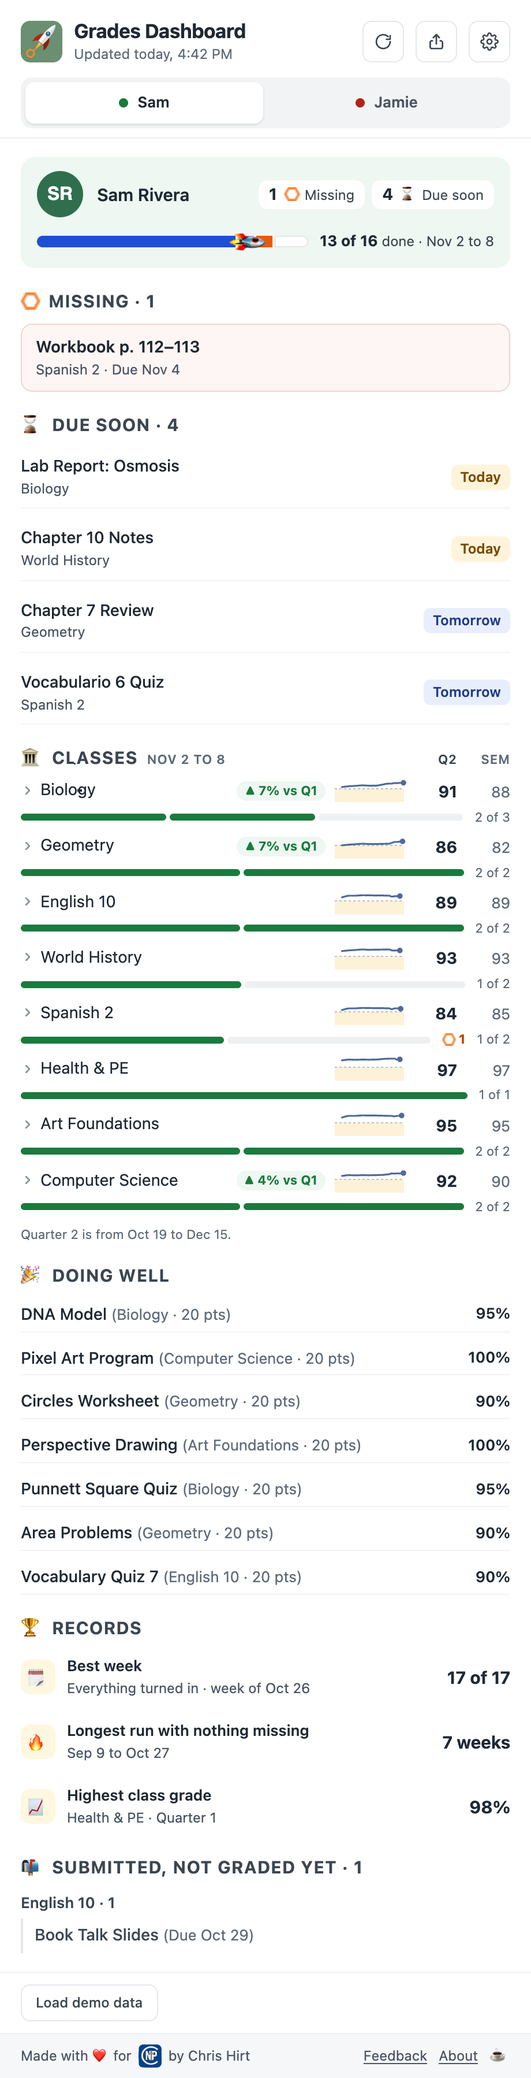
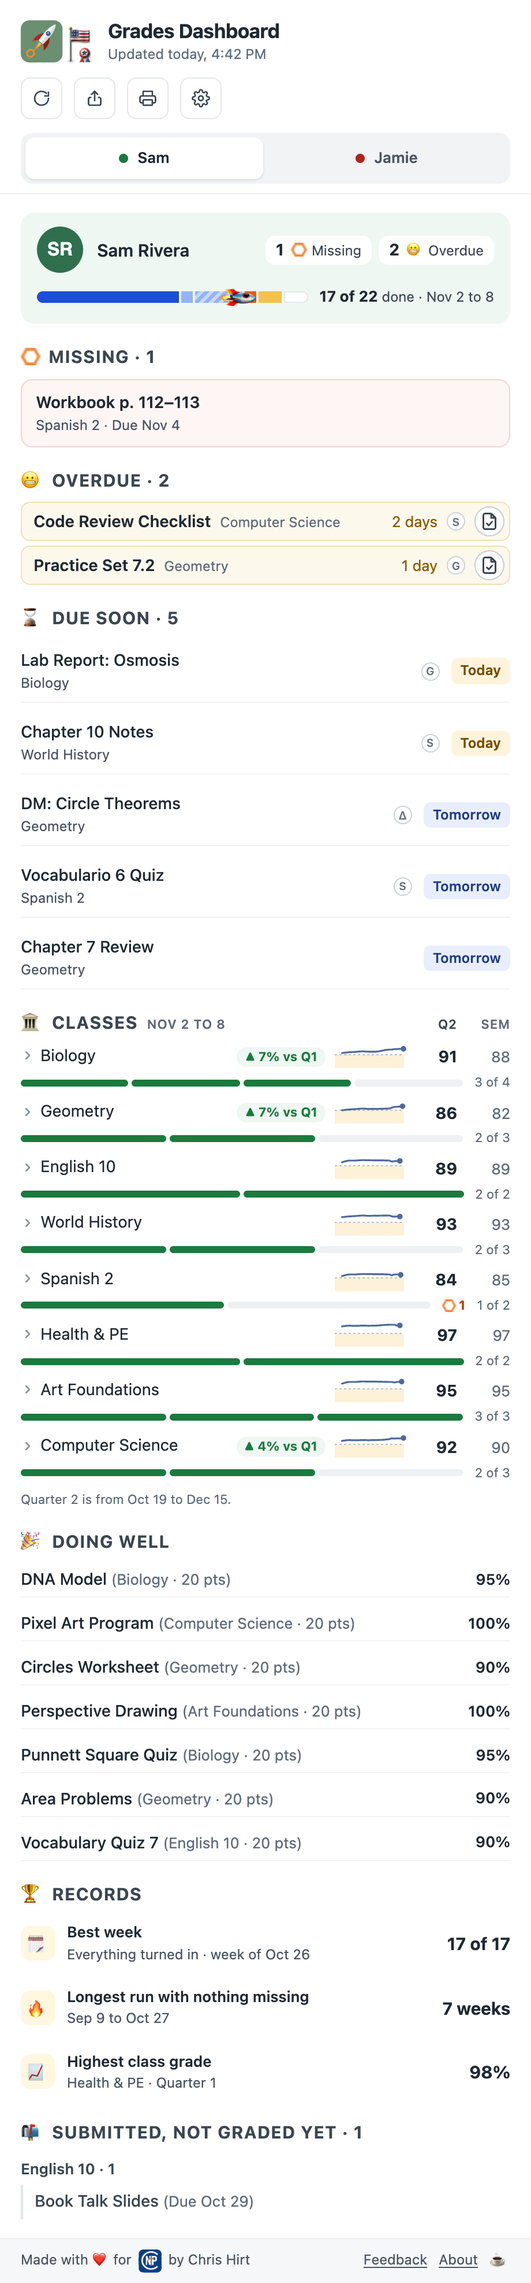
Site: feature "Only what you can still turn in", with a new screenshot (#130)
Home page: a new section after "Built with students and parents in mind"
(paper work counts as done, Overdue is what still needs turning in, the
S/G/Δ/globe badge key, Sam's example) and a feature card. Features page: a
new section after Missing work, with research and what we avoid; the week
progress text mentions the striped "done offline" part.

Screenshot (site/img/real-overdue.png): Sam's name card through Due soon.
The showcase data gives Sam paper work past due and online work on each
kind of page; the mock server serves classic, Google and outside-tool
pages, and a parent's preview link leads on to the assignment page. Half of
each class's graded work shows as turned in online, so its Submissions box
is trusted. Shots run with reduced motion, so no celebration is caught
mid-animation. All site images regenerated; alt text updated to match.

diff --git a/site/features.html b/site/features.html
@@ -26,37 +26,49 @@
 <div class="research"><strong>What the research says</strong><p>Specific information about missing assignments is what made the parent alerts work.<sup class="cite"><a href="research.html#r1">[1]</a></sup> Feedback helps most when it's about the task and what to do next.<sup class="cite"><a href="research.html#r5">[5]</a></sup></p></div>
 <div class="avoid"><strong>What we avoid, and why</strong><p>A plain zero is never called Missing, because only the teacher's Missing mark counts. Marks never notify anyone. Feedback that turns attention to the person (“you're behind”) instead of the task often makes things worse.<sup class="cite"><a href="research.html#r6">[6]</a></sup></p></div></div>
 <div class="feature-media"><div class="panel-crop"><img src="img/waiting-on-teacher.png" alt="Submitted, not graded yet: work that was turned in and is still waiting for a grade." loading="lazy" style="width:293%;max-width:none;margin-left:-193%"></div></div>
-</article><article class="feature" id="due">
+</article><article class="feature" id="real-overdue">
+<div><h2>Only what you can still turn in</h2><p>Schoology lists work that can still be turned in right next to work that was done on paper or in class. The dashboard reads each assignment's own page to tell them apart. Paper and in-class work counts as done once its due date passes, and it's never in Overdue, so Overdue only shows what still needs turning in. Each assignment that goes in online gets a small badge saying where:</p>
+<ul class="via-key" aria-label="What the badges mean">
+<li><span class="via" aria-hidden="true">S</span>A Schoology assignment</li>
+<li><span class="via" aria-hidden="true">G</span>A Google assignment</li>
+<li><span class="via" aria-hidden="true">Δ</span>A DeltaMath assignment</li>
+<li><span class="via" aria-hidden="true"><svg width="10" height="10" viewBox="0 0 24 24" fill="none" stroke="currentColor" stroke-linecap="round"><g stroke-width="2.4"><circle cx="12" cy="12" r="9"/><path d="M3 12h18"/><path d="M12 3c2.5 2.6 3.8 5.6 3.8 9s-1.3 6.4-3.8 9c-2.5-2.6-3.8-5.6-3.8-9S9.5 5.6 12 3z"/></g></svg></span>Another online tool</li>
+<li><span class="via none" aria-hidden="true"></span>No badge: on paper or in class</li>
+</ul>
+<div class="research"><strong>What the research says</strong><p>Feedback helps most when it's about the task and what to do next.<sup class="cite"><a href="research.html#r5">[5]</a></sup> A short list of things that can actually be done makes it easier to plan when and where to do them, which makes follow-through much more likely.<sup class="cite"><a href="research.html#r9">[9]</a></sup></p></div>
+<div class="avoid"><strong>What we avoid, and why</strong><p>A wrong guess must never hide work that can still be turned in. Work is only treated as paper when its page says it can't be turned in online, or when its Submissions box is on but that class's graded work almost never goes in online. Anything unclear stays in Overdue, and a teacher's Missing mark always wins.</p></div></div>
+<div class="feature-media"><img src="img/real-overdue.png" alt="Sam Rivera this week: 17 of 22 done, with the striped “4 done offline” part of the bar pointed out; 1 missing assignment; 2 overdue, badged S and G; and 5 due today or tomorrow, badged G, S, Δ, S, and one paper assignment with no badge." loading="lazy"></div>
+</article><article class="feature flip" id="due">
 <div><h2>Due today and tomorrow</h2><p>A short list of what's due in the next two days, so tonight's plan is obvious.</p>
 <div class="research"><strong>What the research says</strong><p>Children given near, concrete goals made faster progress and built more confidence and interest than children given one distant goal.<sup class="cite"><a href="research.html#r8">[8]</a></sup> Deciding when and where to do something makes people much more likely to follow through.<sup class="cite"><a href="research.html#r9">[9]</a></sup></p></div>
 <div class="avoid"><strong>What we avoid, and why</strong><p>There are no countdown timers, red alarms or reminders every hour, just the list.</p></div></div>
-<div class="feature-media"><img class="framed" src="img/phone-student-sam.png" alt="Sam's view on a phone: 1 thing to finish first, then 2 items due today and 2 tomorrow." loading="lazy"></div>
-</article><article class="feature flip" id="week">
-<div><h2>This week's progress</h2><p>A bar along the bottom of the name card fills as this week's assignments are graded (dark blue) or turned in and waiting for a grade (light blue). Missing work shows in orange. It starts fresh every Monday.</p>
+<div class="feature-media"><img class="framed" src="img/phone-student-sam.png" alt="Sam's view on a phone: 1 missing and 2 overdue to finish first, then 2 items due today and 3 tomorrow, each badged where it's turned in." loading="lazy"></div>
+</article><article class="feature" id="week">
+<div><h2>This week's progress</h2><p>A bar along the bottom of the name card fills as this week's assignments are graded (dark blue) or turned in and waiting for a grade (light blue). Paper and in-class work counts too once its due date passes (striped, “done offline”). Missing work shows in orange. It starts fresh every Monday.</p>
 <div class="research"><strong>What the research says</strong><p>Watching progress toward a goal helps people reach it, more so when the progress is recorded where they can see it.<sup class="cite"><a href="research.html#r7">[7]</a></sup> A week is a near goal that's always within reach.<sup class="cite"><a href="research.html#r8">[8]</a></sup></p></div>
 <div class="avoid"><strong>What we avoid, and why</strong><p>Streaks that reset to zero backfire. When a streak breaks, people often give up instead of starting again, especially when they blame themselves.<sup class="cite"><a href="research.html#r11">[11]</a></sup> The bar is a fresh goal each week, so there's nothing to lose.</p></div></div>
-<div class="feature-media"><div class="panel-crop"><img src="img/parent-sam.png" alt="Sam Rivera: GO, 1 missing, 4 due soon, and 13 of 16 assignments done this week." loading="lazy" style="width:293%;max-width:none;margin-left:-193%"></div></div>
-</article><article class="feature" id="up">
+<div class="feature-media"><div class="panel-crop"><img src="img/parent-sam.png" alt="Sam Rivera: GO, 1 missing, 2 overdue, 5 due soon, and 17 of 22 assignments done this week." loading="lazy" style="width:293%;max-width:none;margin-left:-193%"></div></div>
+</article><article class="feature flip" id="up">
 <div><h2>Up since last quarter</h2><p>When a class grade is higher than last quarter, a small “▲ 7% vs Q1” appears beside it. When it's lower, nothing appears.</p>
 <div class="research"><strong>What the research says</strong><p>Comparing yourself with your own past (personal bests) goes with more engagement and effort.<sup class="cite"><a href="research.html#r12">[12]</a></sup> Feedback about progress on the task works best.<sup class="cite"><a href="research.html#r5">[5]</a></sup></p></div>
 <div class="avoid"><strong>What we avoid, and why</strong><p>Drops don't get a red arrow. Feedback that pulls attention to the self (“your grade dropped”) lowered performance in over a third of the studies in a large review.<sup class="cite"><a href="research.html#r6">[6]</a></sup> The passing line and the class bar still show where things stand.</p></div></div>
 <div class="feature-media"><div class="panel-crop"><img src="img/grade-chart.png" alt="Biology up 7% since Quarter 1, with the class grade drawn over time against the 75% line." loading="lazy" style="width:293%;max-width:none;margin-left:-193%"></div></div>
-</article><article class="feature flip" id="records">
+</article><article class="feature" id="records">
 <div><h2>Records: personal bests that only go up</h2><p>Highest score, best week, longest run with nothing missing, and highest class grade this school year. Records are saved, so a rough week never takes one away.</p>
 <div class="research"><strong>What the research says</strong><p>Personal-best goals, measured against your own past rather than other people, predict more engagement over time.<sup class="cite"><a href="research.html#r12">[12]</a></sup> Praise works when it's about effort and specific work, not about being smart.<sup class="cite"><a href="research.html#r13">[13]</a></sup></p></div>
 <div class="avoid"><strong>What we avoid, and why</strong><p>There are no points, coins, levels or leaderboards. Rewards tied to finishing tasks can crowd out students' own motivation, more so for children.<sup class="cite"><a href="research.html#r4">[4]</a>,<a href="research.html#r10">[10]</a></sup> In one semester-long study, a course with badges, a leaderboard and coins ended with <em>lower</em> motivation and exam scores.<sup class="cite"><a href="research.html#r14">[14]</a></sup> Dashboards that compare students with each other push competition over learning,<sup class="cite"><a href="research.html#r15">[15]</a></sup> so there's never a ranking, and never a side-by-side of siblings.</p></div></div>
-<div class="feature-media"><div class="panel-crop"><img src="img/records.png" alt="Records: best week 16 of 16, 7 weeks with nothing missing, highest class grade 98%." loading="lazy" style="width:293%;max-width:none;margin-left:-193%"></div></div>
-</article><article class="feature" id="doing-well">
+<div class="feature-media"><div class="panel-crop"><img src="img/records.png" alt="Records: best week 17 of 17, 7 weeks with nothing missing, highest class grade 98%." loading="lazy" style="width:293%;max-width:none;margin-left:-193%"></div></div>
+</article><article class="feature flip" id="doing-well">
 <div><h2>Doing well</h2><p>Recent graded work above the family's “doing well” level, so there's always something specific to notice and praise.</p>
 <div class="research"><strong>What the research says</strong><p>Praising effort and specific work builds motivation; praising intelligence undermines it.<sup class="cite"><a href="research.html#r13">[13]</a></sup> Positive, informative feedback raised children's own interest in a task.<sup class="cite"><a href="research.html#r4">[4]</a></sup></p></div>
 <div class="avoid"><strong>What we avoid, and why</strong><p>It never shows generic cheerleading. It names the actual work (“Pixel Art Program, 100%”), which gives a parent something real to say.</p></div></div>
 <div class="feature-media"><img src="img/doing-well.png" alt="Doing well for Sam: recent graded work such as DNA Model (Biology) 95% and Pixel Art Program (Computer Science) 100%." loading="lazy" style="max-width:420px;margin:0 auto;padding:14px 16px;background:#fff;border-radius:12px;border:1px solid var(--line)"></div>
-</article><article class="feature flip" id="settings">
+</article><article class="feature" id="settings">
 <div><h2>Family rules you set together</h2><p>Three sliders: the passing grade (60–80%), the missing-work limit (1–6) and the “doing well” level (75–90%). GO/NO-GO can be switched off.</p>
 <div class="research"><strong>What the research says</strong><p>Clear structure from parents, together with support for the student's independence, goes with better self-regulation and school results.<sup class="cite"><a href="research.html#r3">[3]</a>,<a href="research.html#r10">[10]</a></sup> Setting rules is the kind of homework involvement most linked to achievement.<sup class="cite"><a href="research.html#r2">[2]</a></sup></p></div>
 <div class="avoid"><strong>What we avoid, and why</strong><p>Rules are meant to be agreed on, not imposed. Students see the same information, and there are no hidden thresholds.</p></div></div>
 <div class="feature-media"><img src="img/settings.png" alt="The settings page: passing grade 75%, missing work limit 2 items, doing well 80%." loading="lazy" style="border-radius:12px;border:1px solid var(--line)"></div>
-</article><article class="feature" id="print">
+</article><article class="feature flip" id="print">
 <div><h2>Print what's next, and check it off on paper</h2><p>One press of the printer button puts everything on a single sheet of paper: Missing work, anything Overdue, and what's due today and tomorrow, each with an empty box to tick with a pencil. Class grades and recent Doing well work fill the other side of the page. Stick it on the fridge or tuck it in a binder, and the evening's work is right there without a screen.</p>
 <div class="research"><strong>What the research says</strong><p>Tracking progress helps people reach their goals, and it helps more when the progress is written down.<sup class="cite"><a href="research.html#r7">[7]</a></sup> A short, concrete list of what to do next is a near goal you can finish tonight.<sup class="cite"><a href="research.html#r8">[8]</a></sup></p></div>
 <div class="avoid"><strong>What we avoid, and why</strong><p>It's always one page. Long lists are cut short instead of running onto a second sheet, so the to-do part stays at the top and easy to see. Ticking a box on paper is the student's own note; it doesn't change anything in Schoology.</p></div></div>

diff --git a/test/mock-server/server.js b/test/mock-server/server.js
@@ -113,10 +113,18 @@ const STUDENT = {
   ],
 };
 
-// Assignment pages (/assignment/<id>/info), as live Schoology draws them
-// (extension/src/assignment-page.js): 'none' has no Submissions box (it
-// can't be submitted online), 'box' an empty one, 'submitted' lists work.
+// Assignment pages, as live Schoology draws them
+// (extension/src/assignment-page.js). /assignment/<id> leads to:
+//   'none'       the classic page with no Submissions box (paper work)
+//   'box'        the classic page with an empty Submissions box
+//   'submitted'  the classic page listing turned-in work
+//   'google'     the newer page (/assignments/<id>/info), handing off to Google
+//   'tool'       an outside tool (/external_tool/<n>/launch), 403 for a parent
+// Showcase items name theirs with `page` (showcase.js).
 const ASSIGNMENT_PAGES = { 5203: 'none', 5204: 'box' };
+function googlePage(id) {
+  return renderPage('Assignment', `<script>window.siteNavigationUiProps={"props":{"assignmentId":${id},"hasSubmissionsEnabled":true,"launchUrl":"https:\\/\\/lti-submission-google.app.schoology.com\\/lti\\/assignment"}}</script>`);
+}
 function assignmentPage(id, kind) {
   const box = kind === 'none' ? '' : '<div class="drop-items"><div class="right-block-big-wrapper drop-item-display-own"><h3 class="h3-med-flat">Submissions</h3><div class="right-block-big">' +
     (kind === 'submitted' ? `<div id="dropbox-revisions" class="dropbox-revisions"><ul><li><a href="/assignment/${id}/dropbox/view/1?revision=1" class="dropbox-view-link">Assignment submitted</a></li></ul></div>` : `<form action="/assignment/${id}/info" method="post"></form>`) +
@@ -253,6 +261,14 @@ export function createServer({ delayMs = 0, dataset = 'test', now = Date.now(), 
   const PARENT_DATA = showcase ? showcase.parent : PARENT;
   const adminsOf = showcase ? showcase.admins : courseAdmins;
   const adminNames = showcase ? SHOWCASE_ADMINS : ADMIN_NAMES;
+  // Which page each assignment leads to (above): the test ones, plus any
+  // showcase item that names one.
+  const pageKinds = { ...ASSIGNMENT_PAGES };
+  if (showcase) {
+    for (const who of [showcase.student, ...showcase.parent.children]) {
+      for (const c of who.courses) for (const per of c.periods || []) for (const it of per.items || []) if (it.page) pageKinds[it.id] = it.page;
+    }
+  }
   let pageOnly = false; // see /__mock/page-only below
   let pageOnlyFails = false;
   return http.createServer(async (req, res) => {
@@ -319,11 +335,25 @@ export function createServer({ delayMs = 0, dataset = 'test', now = Date.now(), 
       // The second student (test data only): same routes, own name and classes.
       const STUDENT_DATA = who === 'student2' && !showcase ? STUDENT2 : STUDENT_DATA_ALL;
 
-      // An assignment's own page: /assignment/<id> goes to /assignment/<id>/info.
+      // An assignment's own page: /assignment/<id> goes to its page (above).
       const assignment = pathname.match(/^\/assignment\/(\d+)(\/info)?$/);
-      if (assignment && ASSIGNMENT_PAGES[assignment[1]]) {
-        if (!assignment[2]) redirect(res, `/assignment/${assignment[1]}/info`);
-        else sendHtml(res, 200, assignmentPage(assignment[1], ASSIGNMENT_PAGES[assignment[1]]));
+      const pageKind = assignment && pageKinds[assignment[1]];
+      if (pageKind) {
+        const id = assignment[1];
+        if (pageKind === 'google') redirect(res, `/assignments/${id}/info`);
+        else if (pageKind === 'tool') redirect(res, `/external_tool/9${id}/launch`);
+        else if (!assignment[2]) redirect(res, `/assignment/${id}/info`);
+        else sendHtml(res, 200, assignmentPage(id, pageKind));
+        return;
+      }
+      const newPage = pathname.match(/^\/assignments\/(\d+)\/info$/);
+      if (newPage && pageKinds[newPage[1]] === 'google') {
+        sendHtml(res, 200, googlePage(newPage[1]));
+        return;
+      }
+      if (/^\/external_tool\/\d+\/launch$/.test(pathname)) {
+        // As for a parent on live Schoology: not allowed, and no tool named.
+        sendHtml(res, 403, renderPage('Schoology', '<p>You do not have access to this page.</p>'));
         return;
       }
       if (pathname === '/home') {
@@ -370,6 +400,13 @@ export function createServer({ delayMs = 0, dataset = 'test', now = Date.now(), 
         const previewUid = (coursePage[2].match(/^preview\/(\d+)\/parent$/) || [])[1];
         const previewChild = persona === 'parent' && previewUid && PARENT_DATA.children.find((c) => c.uid === previewUid);
         const courseHeaders = previewChild ? { 'set-cookie': `mock-view-child=${previewChild.uid}; Path=/` } : {};
+        // A preview link to an assignment leads on to that assignment's page.
+        const previewAssignment = (String(reqUrl.searchParams.get('url') || '').match(/^assignment\/(\d+)$/) || [])[1];
+        if (previewChild && previewAssignment && pageKinds[previewAssignment]) {
+          res.writeHead(302, { location: `/assignment/${previewAssignment}`, ...courseHeaders });
+          res.end();
+          return;
+        }
         // ...and, as on Schoology, the page then names that child as the user.
         if (previewChild) res.mockUserUid = previewChild.uid;
         sendHtml(res, 200, renderPage('Course', `<h3><a href="/course/${coursePage[1]}/members" class="view-members">${admins.length} Admin${admins.length > 1 ? 's' : ''}</a> &sdot; <a href="${compose}" class="enrollment-members-message"><span class="message-icon"></span></a></h3><div class='picture_block clearfix'>${pictures}</div>`), courseHeaders);

diff --git a/test/mock-server/showcase.js b/test/mock-server/showcase.js
@@ -14,6 +14,12 @@
 //
 // Each class lists a teacher, and some also list Mr. Ortiz (a department
 // admin on many classes), so "Message the teacher" shows the chooser.
+//
+// Sam's work this week names its own assignment page (`page`, served by
+// server.js): paper work past its due date ('none': done offline, not
+// Overdue), two real Overdue items (Schoology and Google), and Due soon
+// work turned in on Schoology, Google, DeltaMath ('tool', "DM:") or on
+// paper. The site's "Only what you can still turn in" shot shows these.
 
 const DAY = 24 * 60 * 60 * 1000;
 const SUBMITTED = 'This student has completed assignment submission';
@@ -64,7 +70,9 @@ export function buildShowcase(now = Date.now()) {
     const span = Math.max(1, Math.round((today - 2 * DAY - q2Start) / DAY));
     return titles.map((title, i) => {
       const t = q2Start + Math.round(((i + 1) / (titles.length + 1)) * span) * DAY;
-      return { id: String(nextItem++), title, kind: /quiz|test/i.test(title) ? 'assessment' : 'assignment', due: due(t), score: Math.round((percents[i] / 100) * max), max };
+      // Every other one was turned in online, as in a class that uses
+      // Schoology's Submissions box (so its box is trusted: assignment-page.js).
+      return { id: String(nextItem++), title, kind: /quiz|test/i.test(title) ? 'assessment' : 'assignment', due: due(t), score: Math.round((percents[i] / 100) * max), max, ...(i % 2 ? { note: SUBMITTED } : {}) };
     });
   }
   const at = (days, extra) => ({ id: String(nextItem++), due: due(today + days * DAY), kind: 'assignment', ...extra });
@@ -81,6 +89,7 @@ export function buildShowcase(now = Date.now()) {
       due: due(semStart + Math.round(((i + 1) / (Q1_TITLES.length + 1)) * span) * DAY),
       score: Math.max(0, Math.min(20, Math.round(((q1 + Q1_SPREAD[i]) / 100) * 20))),
       max: 20,
+      ...(i % 2 ? { note: SUBMITTED } : {}), // every other one turned in online
     }));
   }
 
@@ -102,12 +111,15 @@ export function buildShowcase(now = Date.now()) {
       course('4001', 'Biology: Section 2', { q2: 91, q1: 84, sem: 88 }, [
         ...graded(['Cell Structure Lab', 'Mitosis Quiz', 'Microscope Drawings', 'Genetics Worksheet', 'Punnett Square Quiz'], [88, 92, 95, 90, 93]),
         at(-1, { title: 'DNA Model', score: 19, max: 20 }),
-        at(0, { title: 'Lab Report: Osmosis' }),
+        at(-2, { title: 'Microscope Lab Practical', kind: 'assessment', page: 'none' }),
+        at(0, { title: 'Lab Report: Osmosis', page: 'google' }),
       ]),
       course('4002', 'Geometry: Section 4', { q2: 86, q1: 79, sem: 82 }, [
         ...graded(['Proofs Practice', 'Triangle Congruence Quiz', 'Similarity Worksheet', 'Unit 3 Test', 'Area Problems'], [80, 84, 88, 86, 90]),
         at(-2, { title: 'Circles Worksheet', note: SUBMITTED, score: 18, max: 20 }),
-        at(1, { title: 'Chapter 7 Review' }),
+        at(-1, { title: 'Practice Set 7.2', page: 'google', max: 10 }),
+        at(1, { title: 'Chapter 7 Review', page: 'none' }),
+        at(1, { title: 'DM: Circle Theorems', page: 'tool', max: 10 }),
       ]),
       course('4003', 'English 10: Section 1', { q2: 89, q1: 90, sem: 89 }, [
         ...graded(['Reading Journal 4', 'Vocabulary Quiz 6', 'Essay Outline', 'Poetry Response', 'Vocabulary Quiz 7'], [90, 85, 92, 88, 90]),
@@ -117,23 +129,27 @@ export function buildShowcase(now = Date.now()) {
       ]),
       course('4004', 'World History: Section 3', { q2: 93, q1: 94, sem: 93 }, [
         ...graded(['Map Quiz: Europe', 'Primary Source Analysis', 'Unit 4 Test', 'Timeline Project', 'Chapter 9 Questions'], [95, 90, 92, 96, 91]),
-        at(0, { title: 'Chapter 10 Notes' }),
+        at(-3, { title: 'Map Quiz: Asia', kind: 'assessment', page: 'none' }),
+        at(0, { title: 'Chapter 10 Notes', page: 'box' }),
       ]),
       course('4005', 'Spanish 2: Section 1', { q2: 84, q1: 86, sem: 85 }, [
         ...graded(['Vocabulario 4', 'Preterite Quiz', 'Conversation Recording', 'Reading Check', 'Vocabulario 5'], [86, 80, 90, 84, 85]),
         at(-4, { title: 'Workbook p. 112–113', exception: 'missing', max: 10 }),
-        at(1, { title: 'Vocabulario 6 Quiz', kind: 'assessment' }),
+        at(1, { title: 'Vocabulario 6 Quiz', kind: 'assessment', page: 'box' }),
       ]),
       course('4006', 'Health & PE: Section 6', { q2: 97, q1: 98, sem: 97 }, [
         ...graded(['Fitness Log 1', 'Nutrition Worksheet', 'Fitness Log 2', 'Team Sports Reflection', 'Fitness Log 3'], [100, 95, 100, 92, 100], 10),
+        at(-1, { title: 'Fitness Log 4', page: 'none', max: 10 }),
       ]),
       course('4007', 'Art Foundations: Section 2', { q2: 95, q1: 96, sem: 95 }, [
         ...graded(['Contour Drawing', 'Value Scale', 'Still Life Sketch', 'Color Wheel', 'Artist Study'], [94, 96, 92, 98, 95]),
         at(-3, { title: 'Perspective Drawing', score: 20, max: 20 }),
+        at(-2, { title: 'Sketchbook Check', page: 'none', max: 10 }),
       ]),
       course('4008', 'Computer Science: Section 1', { q2: 92, q1: 88, sem: 90 }, [
         ...graded(['Loops Practice', 'Functions Quiz', 'Debugging Lab', 'Lists Project', 'Unit 2 Test'], [90, 94, 88, 96, 92]),
         at(-1, { title: 'Pixel Art Program', note: SUBMITTED, score: 20, max: 20 }),
+        at(-2, { title: 'Code Review Checklist', page: 'box', max: 10 }),
       ]),
       { id: '4009', title: 'Advisory 10: Section 1', courseGrade: null, periods: [] },
     ],

diff --git a/site/index.html b/site/index.html
@@ -44,10 +44,30 @@
 </div></section>
 
 <section class="block"><div class="wrap">
+<article class="feature spotlight" id="real-overdue">
+<div><div class="eyebrow">Cut through the clutter</div><h2>Only what you can still turn in</h2>
+<p>In Schoology, work that can still be turned in sits right next to work that was done on paper or in class and will never be turned in online. A student looking at a long list of overdue work can't tell which items still matter.</p>
+<p>The dashboard reads each assignment's own page and sorts them out. Paper and in-class work counts as done once its due date passes, so Overdue only shows what still needs turning in. A small badge says where each assignment goes:</p>
+<ul class="via-key" aria-label="What the badges mean">
+<li><span class="via" aria-hidden="true">S</span>A Schoology assignment</li>
+<li><span class="via" aria-hidden="true">G</span>A Google assignment</li>
+<li><span class="via" aria-hidden="true">Δ</span>A DeltaMath assignment</li>
+<li><span class="via" aria-hidden="true"><svg width="10" height="10" viewBox="0 0 24 24" fill="none" stroke="currentColor" stroke-linecap="round"><g stroke-width="2.4"><circle cx="12" cy="12" r="9"/><path d="M3 12h18"/><path d="M12 3c2.5 2.6 3.8 5.6 3.8 9s-1.3 6.4-3.8 9c-2.5-2.6-3.8-5.6-3.8-9S9.5 5.6 12 3z"/></g></svg></span>Another online tool</li>
+<li><span class="via none" aria-hidden="true"></span>No badge: on paper or in class</li>
+</ul>
+<p class="muted small">In this example, Sam has 6 assignments past their due date that Schoology hasn’t graded or marked Missing. Only 2 can still be turned in online; the other 4 were done on paper.</p>
+<p><a href="features.html#real-overdue">How it decides</a></p>
+</div>
+<div class="feature-media"><img src="img/real-overdue.png" alt="Sam Rivera this week: 17 of 22 done, with the striped “4 done offline” part of the bar pointed out; 1 missing assignment; 2 overdue, badged S and G; and 5 due today or tomorrow, badged G, S, Δ, S, and one paper assignment with no badge." loading="lazy"></div>
+</article>
+</div></section>
+
+<section class="block alt"><div class="wrap">
 <div class="section-intro"><h2>See your homework and grades in a whole new way</h2><p class="muted">The dashboard reads the grades you can already see in Schoology and puts the important parts first. Check out our full feature list on the <a href="features.html">Features</a> page.</p></div>
 <div class="feature-row">
 <div class="cards two">
 <div class="card"><h3><img class="inline-icon" src="img/missing.png" alt=""> Missing work first</h3><p>Parents tend to underestimate missing work. Weekly alerts about it cut course failures by 27% in a large study.<sup class="cite"><a href="research.html#r1">[1]</a></sup></p></div>
+<div class="card"><h3>✅ Only real overdue work</h3><p>Work done on paper counts as done, and a badge says where the rest is turned in. <a href="#real-overdue">See how</a>.</p></div>
 <div class="card"><h3>⌛ Due today and tomorrow</h3><p>Near, concrete goals beat distant ones.<sup class="cite"><a href="research.html#r8">[8]</a></sup></p></div>
 <div class="card"><h3>📊 This week's progress</h3><p>A fresh goal every Monday, never a streak that resets to zero.<sup class="cite"><a href="research.html#r7">[7]</a>,<a href="research.html#r11">[11]</a></sup></p></div>
 <div class="card"><h3>🏆 Personal bests</h3><p>Records only go up. No rankings, and no comparing siblings.<sup class="cite"><a href="research.html#r12">[12]</a>,<a href="research.html#r14">[14]</a></sup></p></div>
@@ -60,7 +80,7 @@
 </div>
 </div></section>
 
-<section class="block alt"><div class="wrap">
+<section class="block"><div class="wrap">
 <div class="cards one">
 <div class="card"><h3>🔒 Safe and private</h3><p>It only reads Schoology pages you can already see, with your own login. There's no server, no account and no tracking, and grades never leave your browser. The code is open for anyone to check. <a href="schools.html">Details for schools and IT</a>.</p></div>
 </div>

diff --git a/site/style.css b/site/style.css
@@ -198,3 +198,11 @@ ol.refs .why { display: block; color: var(--muted); font-size: 15px; margin-top:
 .support-text p { margin: 0; }
 .support-links { display: flex; gap: 10px; flex-wrap: wrap; margin-top: 14px; }
 .support-links .btn { padding: 10px 16px; font-size: 15px; }
+
+/* "Only what you can still turn in": the badge key, drawn like the
+   extension's badges (a gray letter in a white circle). */
+.via-key { list-style: none; padding: 0; margin: 12px 0 16px; display: grid; gap: 8px; }
+.via-key li { display: flex; align-items: center; gap: 10px; font-size: 15px; color: var(--muted); }
+.via { flex: 0 0 auto; display: inline-flex; align-items: center; justify-content: center; width: 20px; height: 20px; border-radius: 50%; box-sizing: border-box; background: #fff; border: 1px solid #cbd2db; color: #6b7280; font: 600 11.5px/1 system-ui, -apple-system, sans-serif; }
+.via.none { border-style: dashed; }
+.spotlight .feature-media img { box-shadow: 0 12px 28px rgba(15, 23, 42, .10); }
